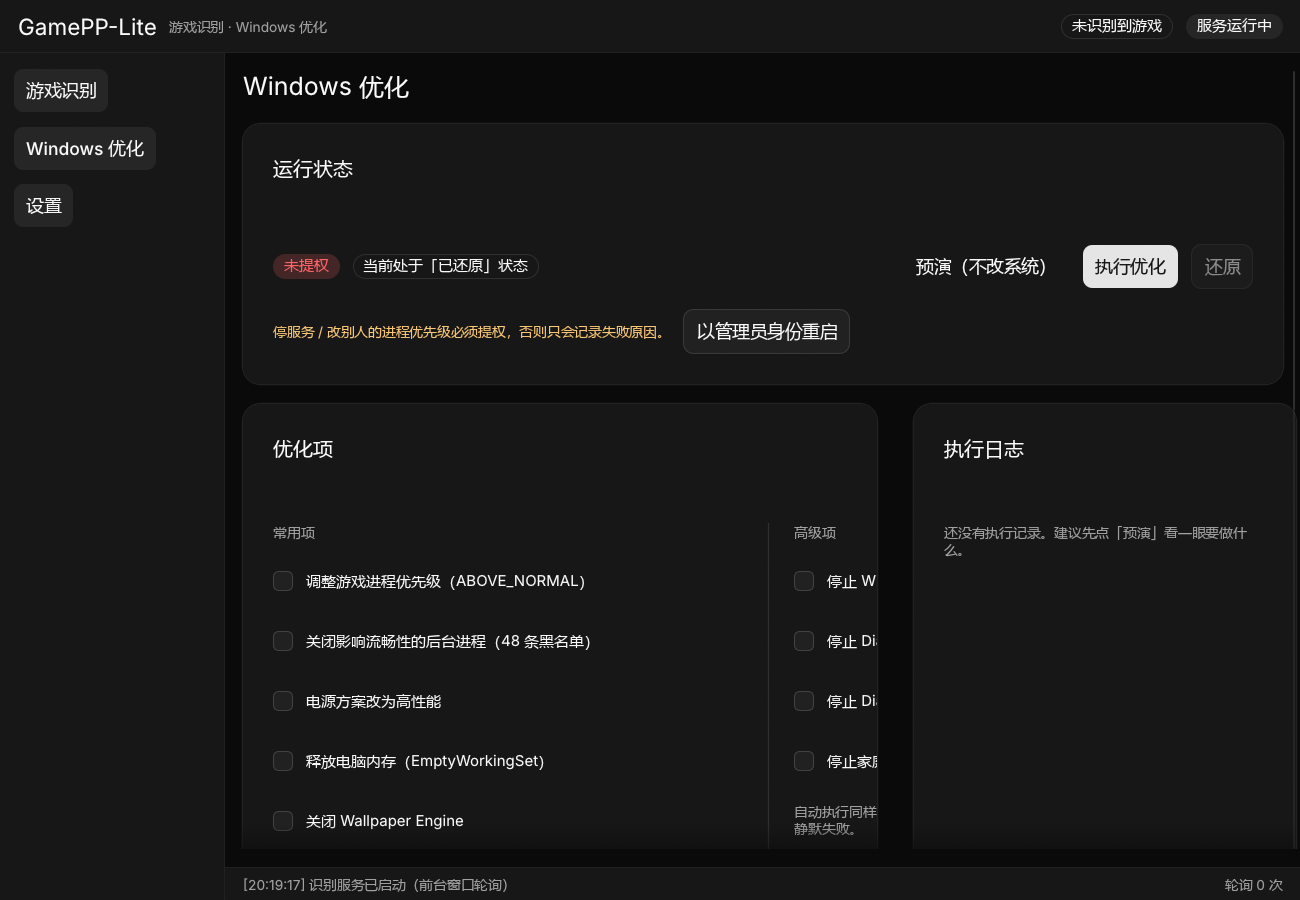
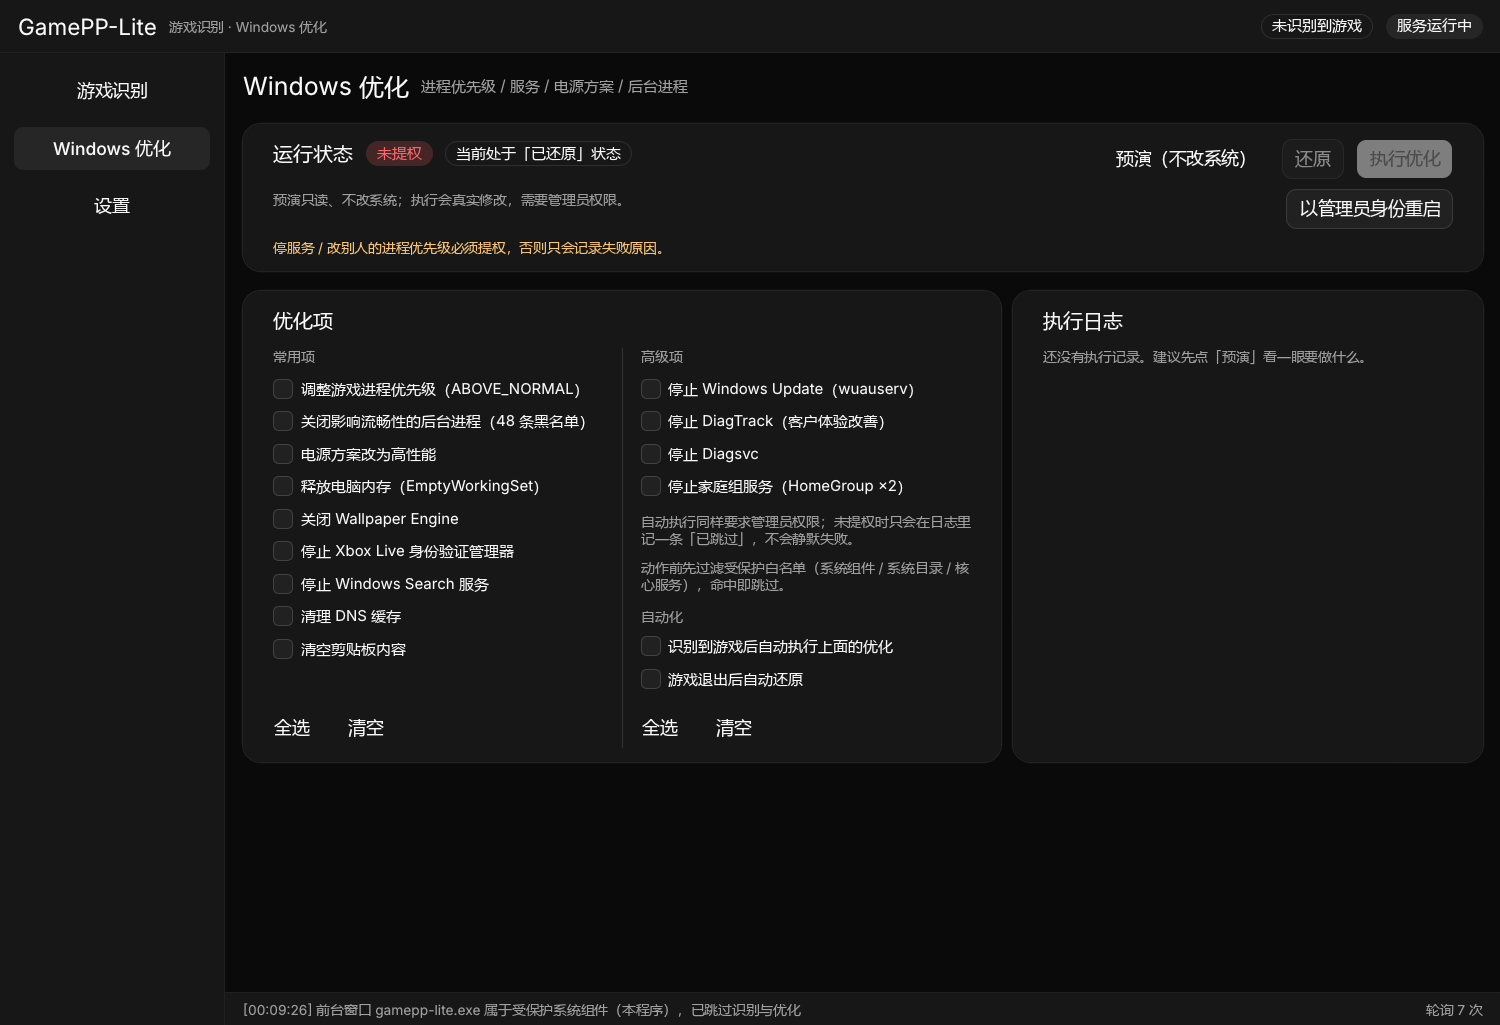
重截界面截图并嵌入 README
三张图用当前构建（0.2.7 / 深色 / 1200x820）重截：
- 旧图是 0.2.2 的，其中设置页还带着构建机的用户目录路径；
- 本次启动时把 LOCALAPPDATA 指到中性目录，配置目录显示为 C:/Temp/GamePP-Lite。
同时修正调试开关文档：GPP_TAB 只认 2/3，其余取值停在识别页；GPP_OPT_DRY 设置即生效。

diff --git a/gamepp-lite/README.md b/gamepp-lite/README.md
@@ -102,12 +102,12 @@ dist\gamepp-lite-setup-0.2.7.exe /uninstall          :: 卸载
 | 变量 | 作用 |
 |---|---|
 | `GPP_SIZE=1040x720` | 指定逻辑窗口尺寸，便于在小窗口下检查布局 |
-| `GPP_TAB=1\|2\|3` | 启动时直接停在某一页（1 识别 / 2 优化 / 3 设置） |
+| `GPP_TAB=2` / `GPP_TAB=3` | 启动时停在 Windows 优化页 / 设置页；未设置或其它值时停在游戏识别页 |
 | `GPP_SHOT=<path.bmp>` | 在第 N 帧后把窗口存成 24 位 BMP（`qa/*.png` 就是这么来的） |
 | `GPP_SHOT_FRAME=<n>` | 截图帧号，默认 6；等高布局要等几帧收敛 |
 | `GPP_PROBE=1` | 第 5 帧最小化到托盘、第 40 帧记一条"事件循环仍在跑" |
 | `GPP_TRAY_TOGGLE=1` | 第 8/16 帧切换托盘"已优化/未优化"图标，验证换图标链路 |
-| `GPP_OPT_DRY=1` | 启动即跑一次 Windows 优化**预演**（只读，但会写 runtime.log） |
+| `GPP_OPT_DRY` | 设置即生效（值任意）：启动跑一次优化**预演**（只读，但会写 runtime.log） |
 | `GPP_INSTANCE_SUFFIX=xxx` | 让测试实例与正式实例并存（**仅 debug 构建生效**） |
 
 ## 与设计稿的差异

diff --git a/README.md b/README.md
@@ -104,6 +104,10 @@ gamepp-winopt.exe stop
 - 一键构建（主程序 + 安装包）：`build-installer.cmd` → `dist\gamepp-lite-setup-0.2.7.exe`
 - 只构建主程序：`gamepp-lite\build.cmd`
 
+| ① 游戏识别 | ② Windows 优化 | ③ 设置 |
+|---|---|---|
+| ![识别](gamepp-lite/qa/shot-detect.png) | ![优化](gamepp-lite/qa/shot-winopt.png) | ![设置](gamepp-lite/qa/shot-settings.png) |
+
 ## 两个程序的关系
 
 `gamepp-winopt/` 是零依赖命令行版，`gamepp-lite/` 是图形版（优化逻辑是它的
